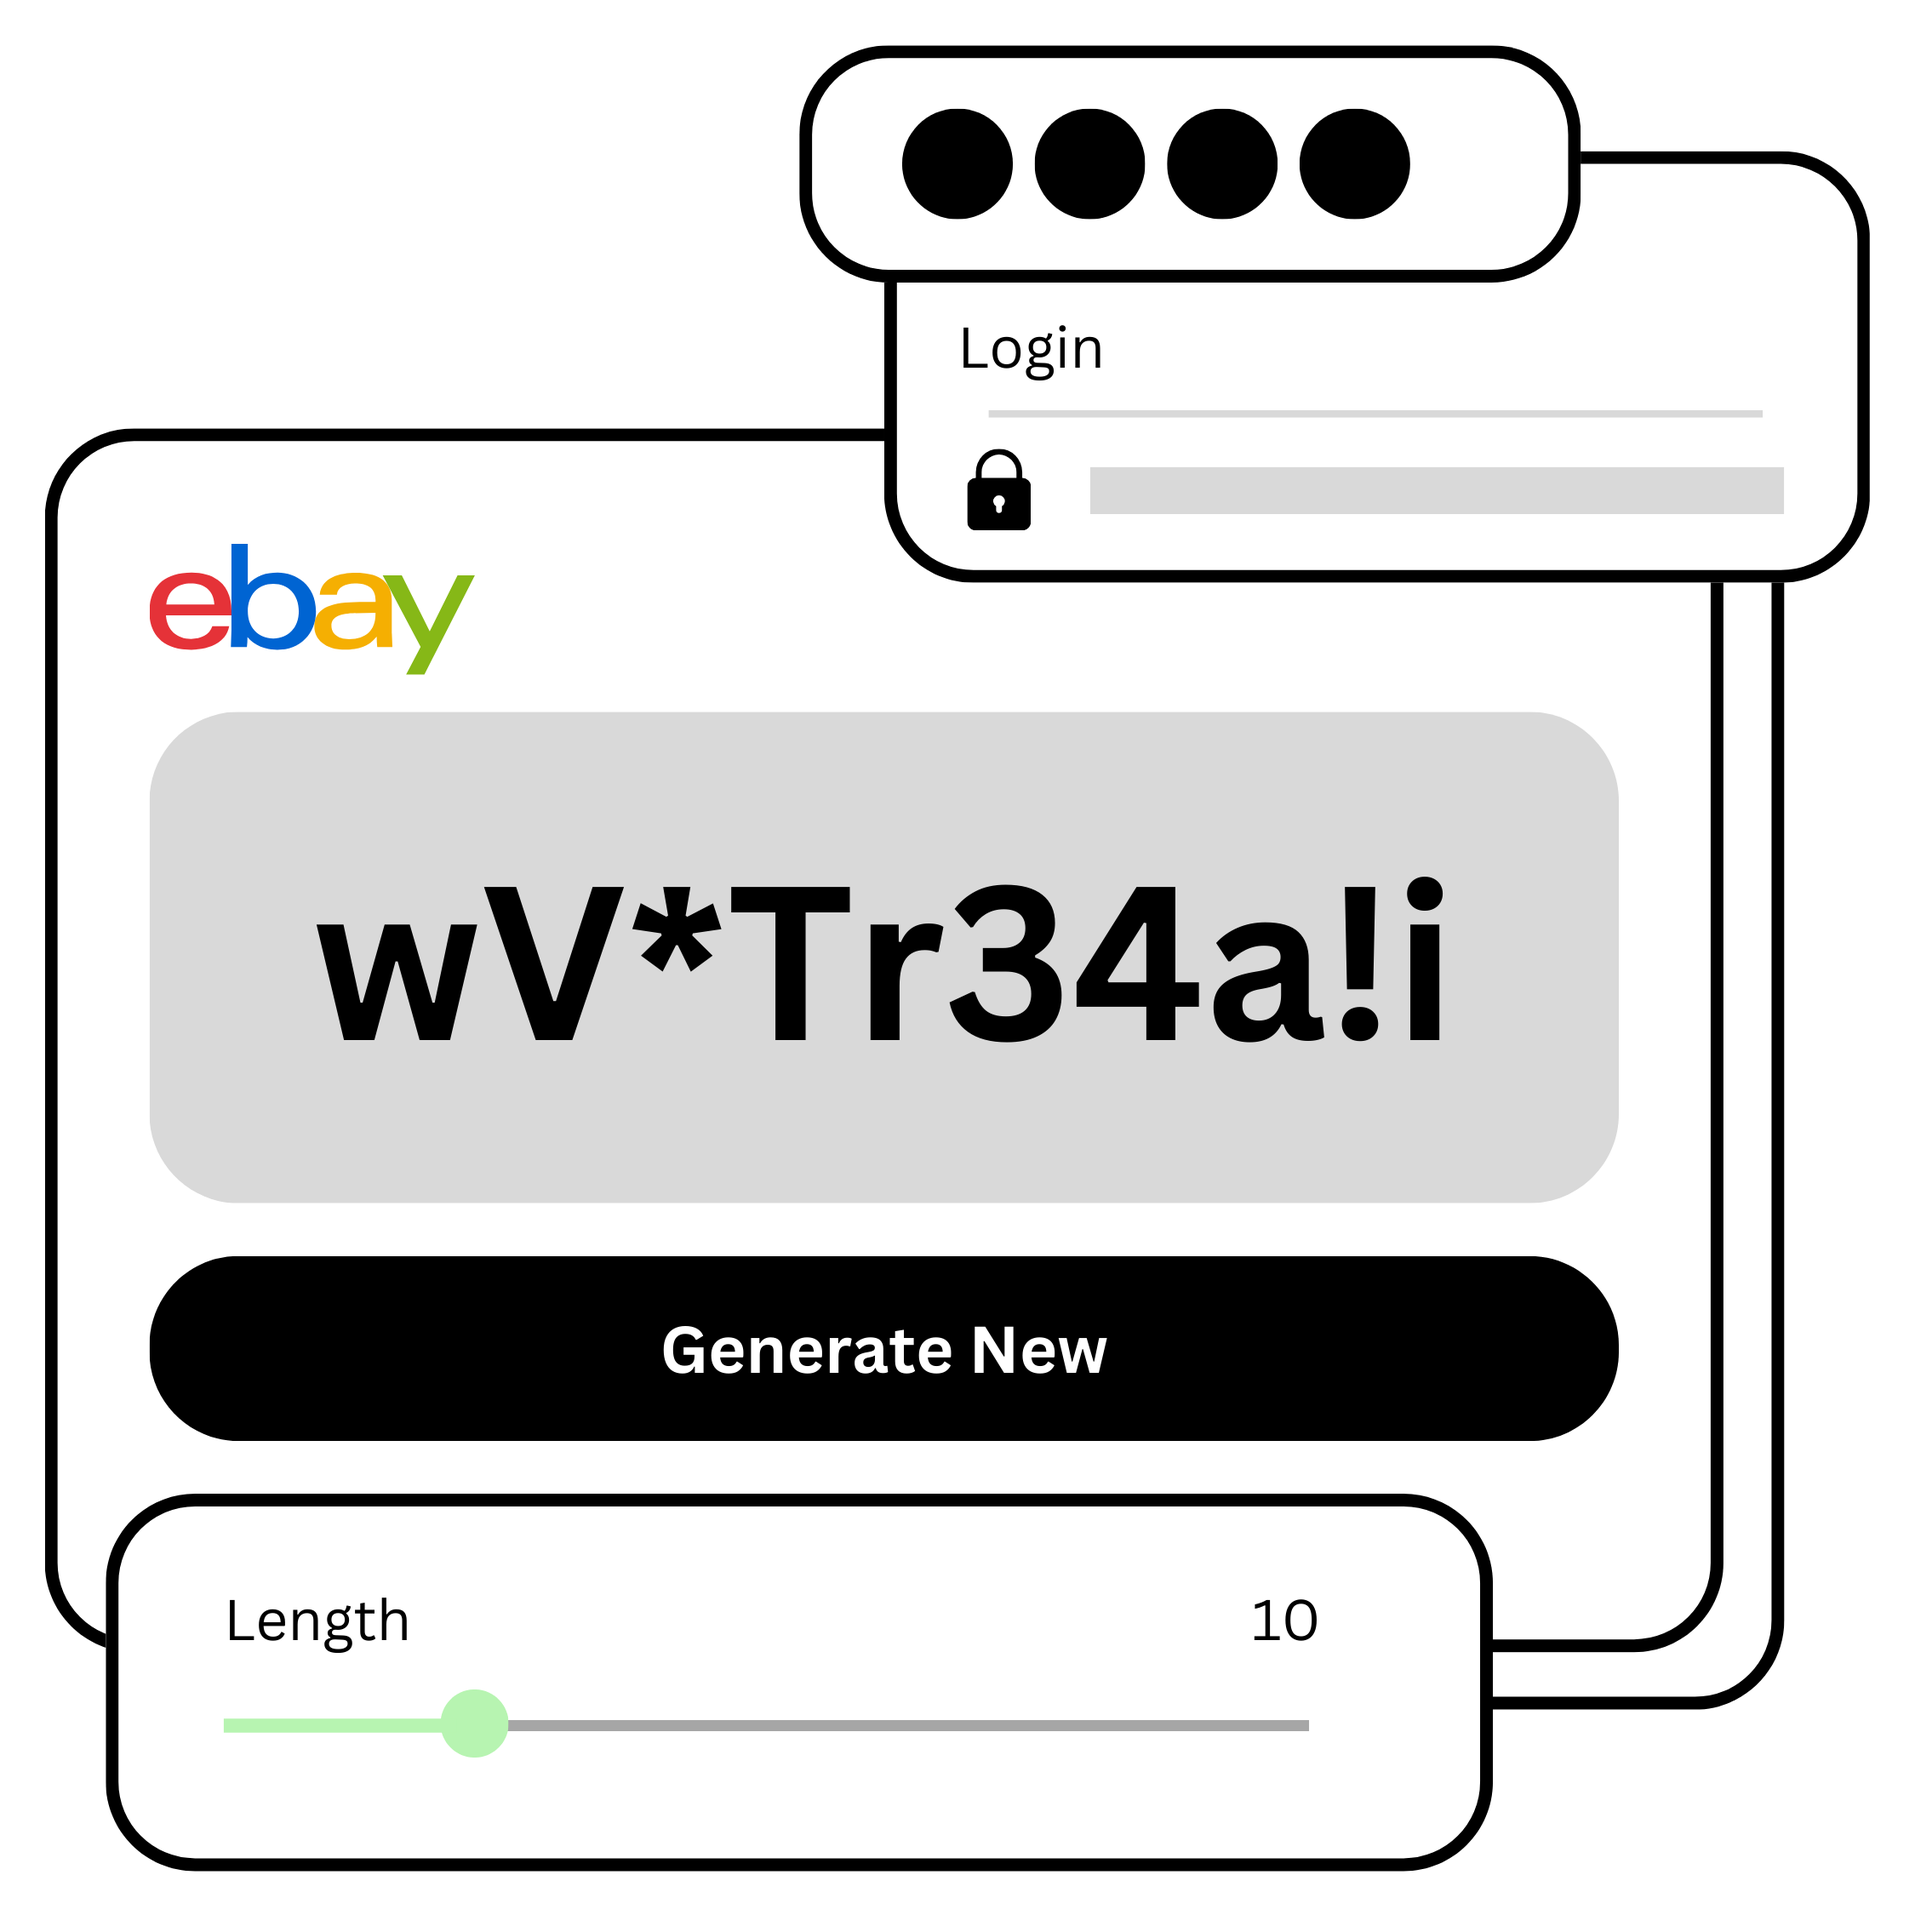
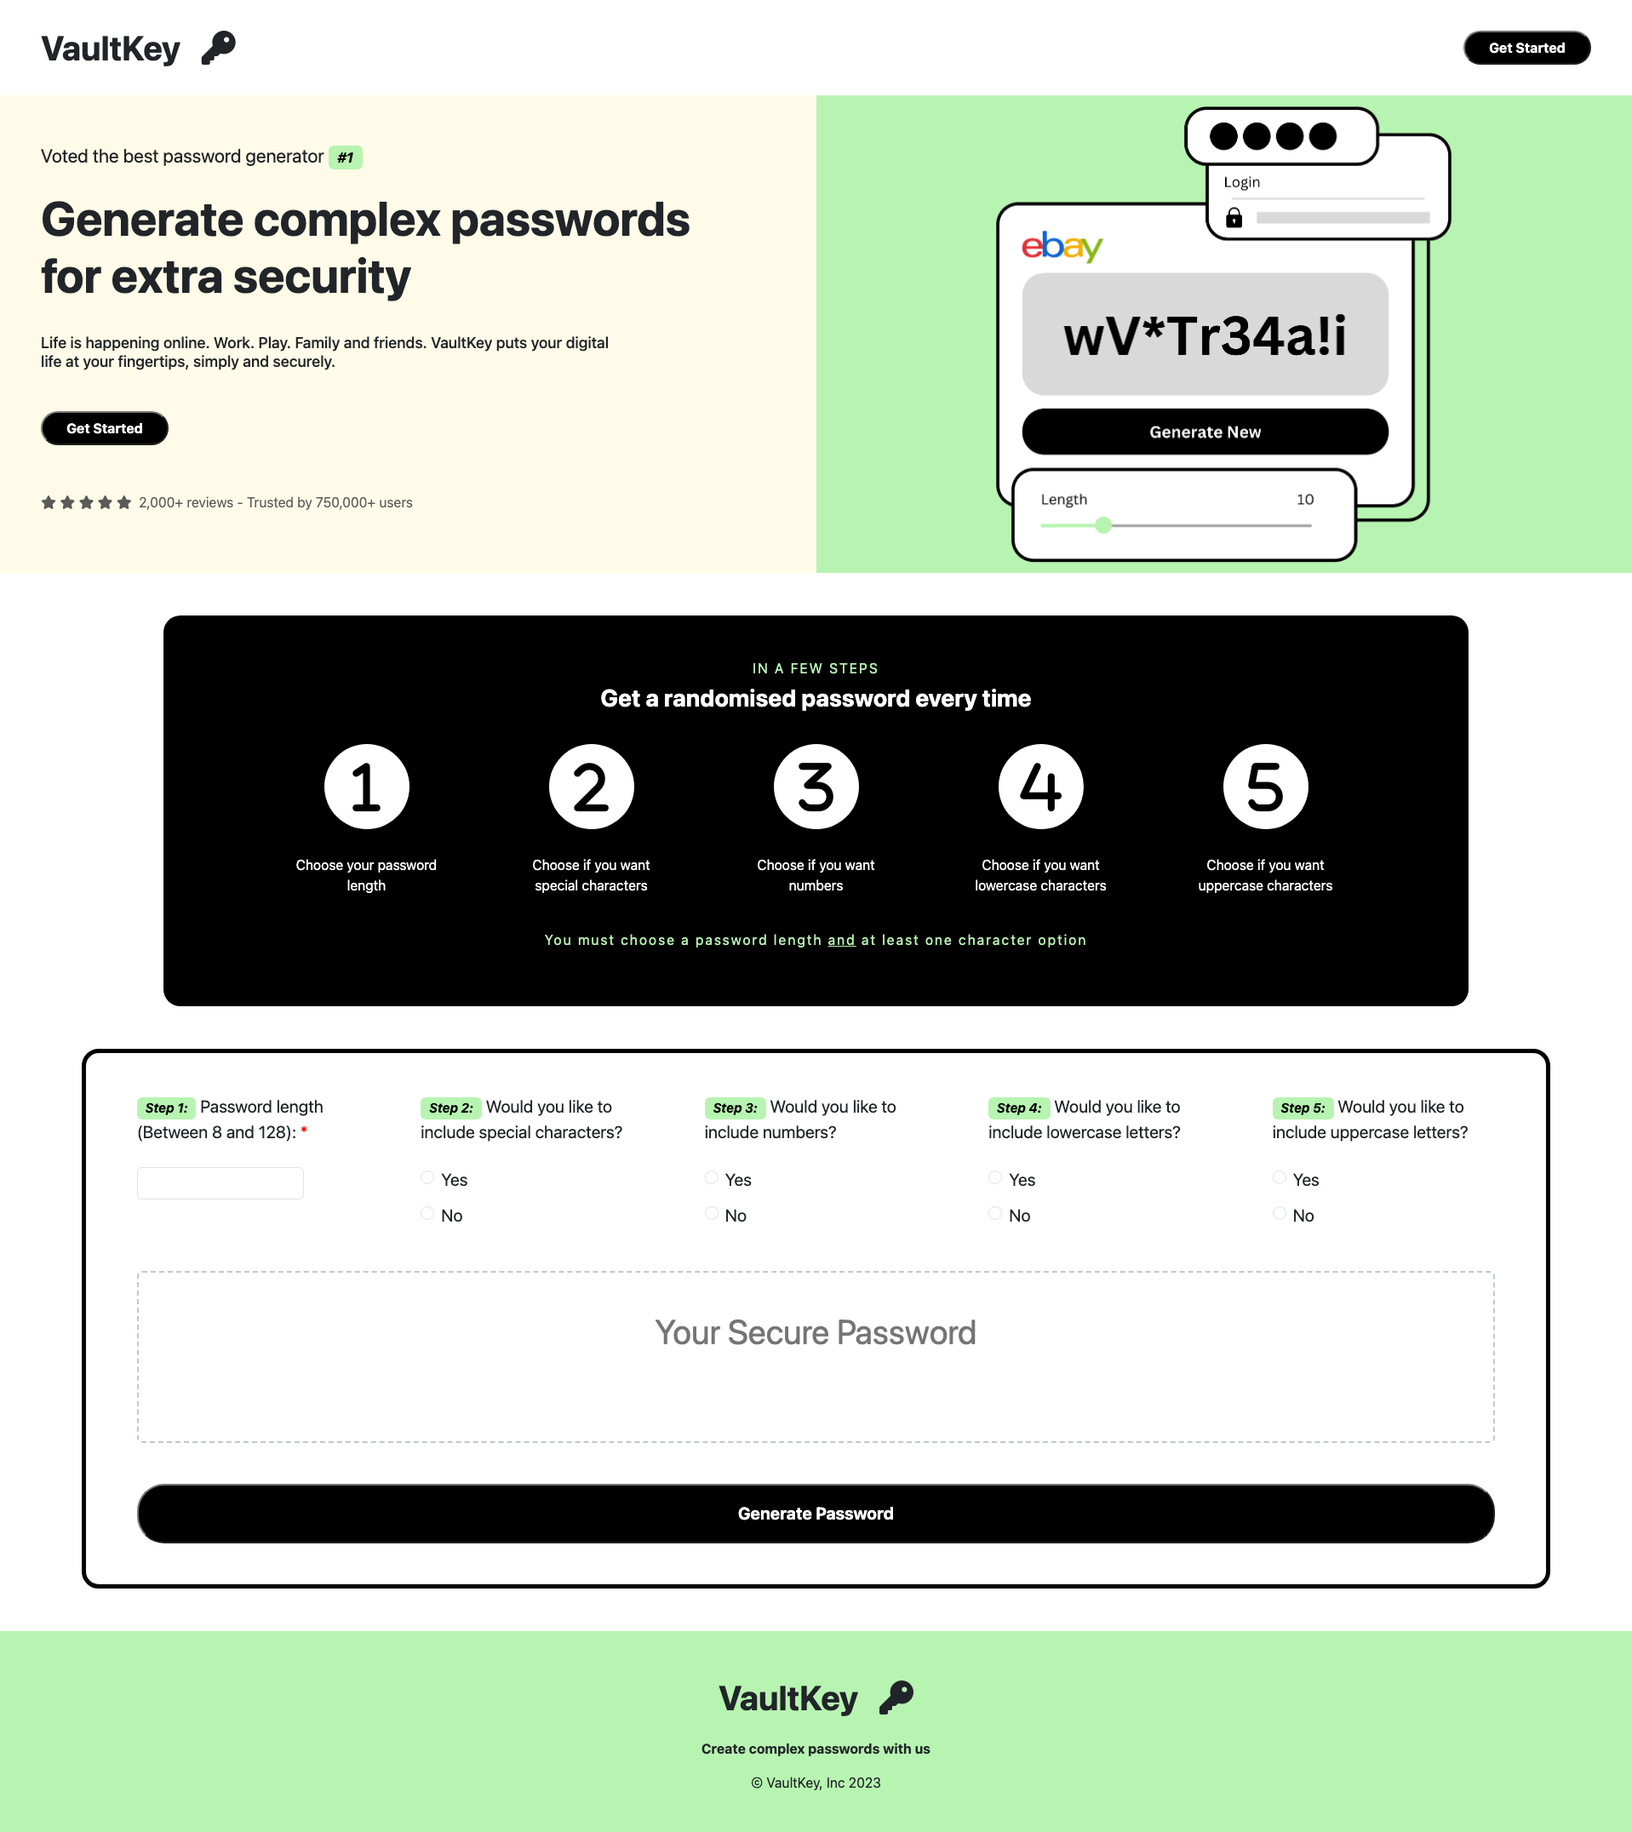
update readme

diff --git a/index.html b/index.html
@@ -40,7 +40,7 @@
                     </p>
                   </div>
                   <div class="col-12 col-sm-12 col-md-6 d-flex justify-content-center align-items-center right">
-                    <img class="hero-image" src="./assets/images/password-generator.png" alt="password generator image">
+                    <img class="hero-image" src="./assets/images/hero-image.png" alt="password generator image">
                   </div>
                 </div>
             </div>

diff --git a/README.md b/README.md
@@ -1,2 +1,16 @@
-# vault-key-generator
-A password generator that intakes user input and forms a password between 8 and 280 characters.
+# VaultKey - A Password Generator Application
+
+Building on my last password generator app, see GitHub code [here](https://github.com/LeanneCodes/password-generator) and live project [here](https://leannecodes.github.io/password-generator/), I wanted to improve on the user interface and make it look like a real-world application.
+
+The app provides step-by-step instructions for users, starting with guidance on navigating its features. Users are prompted to set a password length, ranging from 8 to 128 characters, and to select the specific types of characters they want to include. Upon clicking "Generate Password," a unique character string is generated on the screen, ready for users to copy and utilise for personal or professional purposes.
+
+I want to give credit to Mahima Mahajan for her Dribbble design [here](https://dribbble.com/shots/20288725-MyPass-Password-Manager), where I replicated her header design using HTML, CSS and then Canva for the hero image.
+
+## Application Appearance
+![Password Generator](./assets/images/password-generator.png)
+View live project [here](https://leannecodes.github.io/vault-key-generator/)
+
+## Credits
+- Mahima Mahajan for her Dribbble design [here](https://dribbble.com/shots/20288725-MyPass-Password-Manager)
+- FontAwesome for the icons
+- Bootstrap CDN
